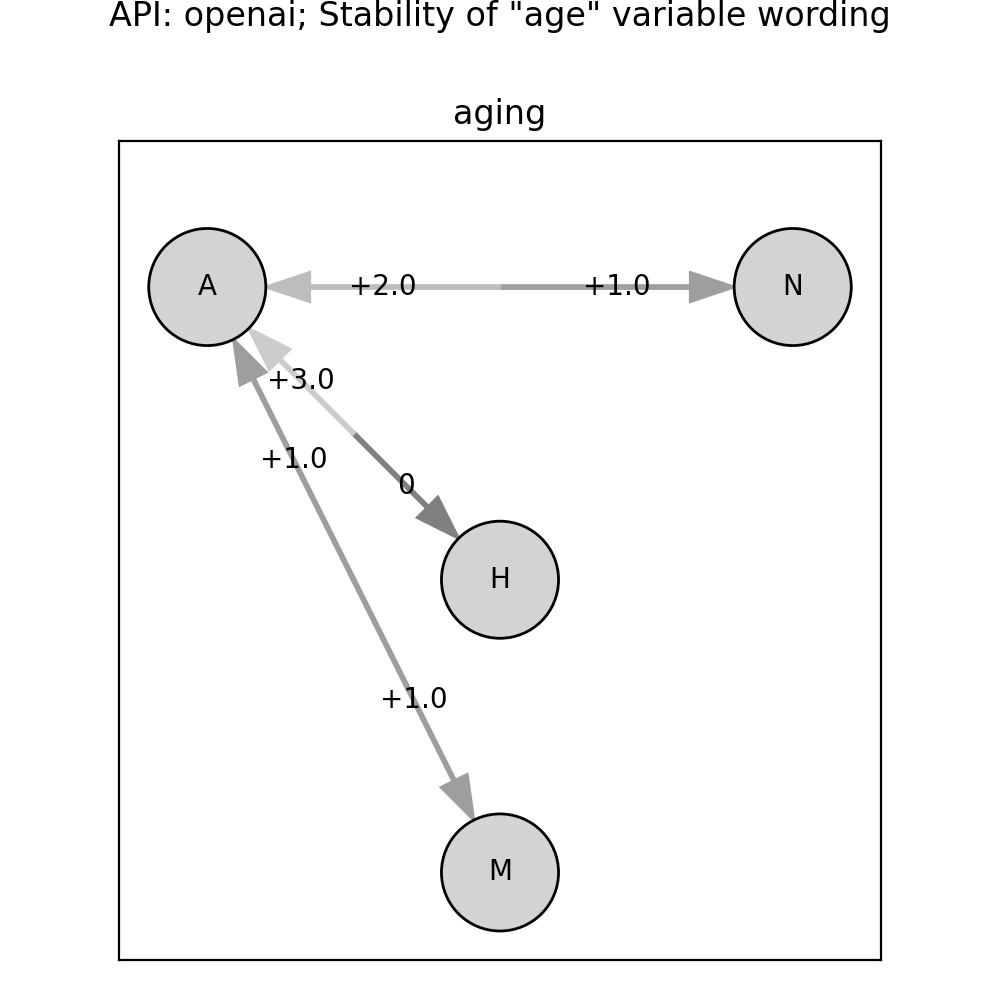
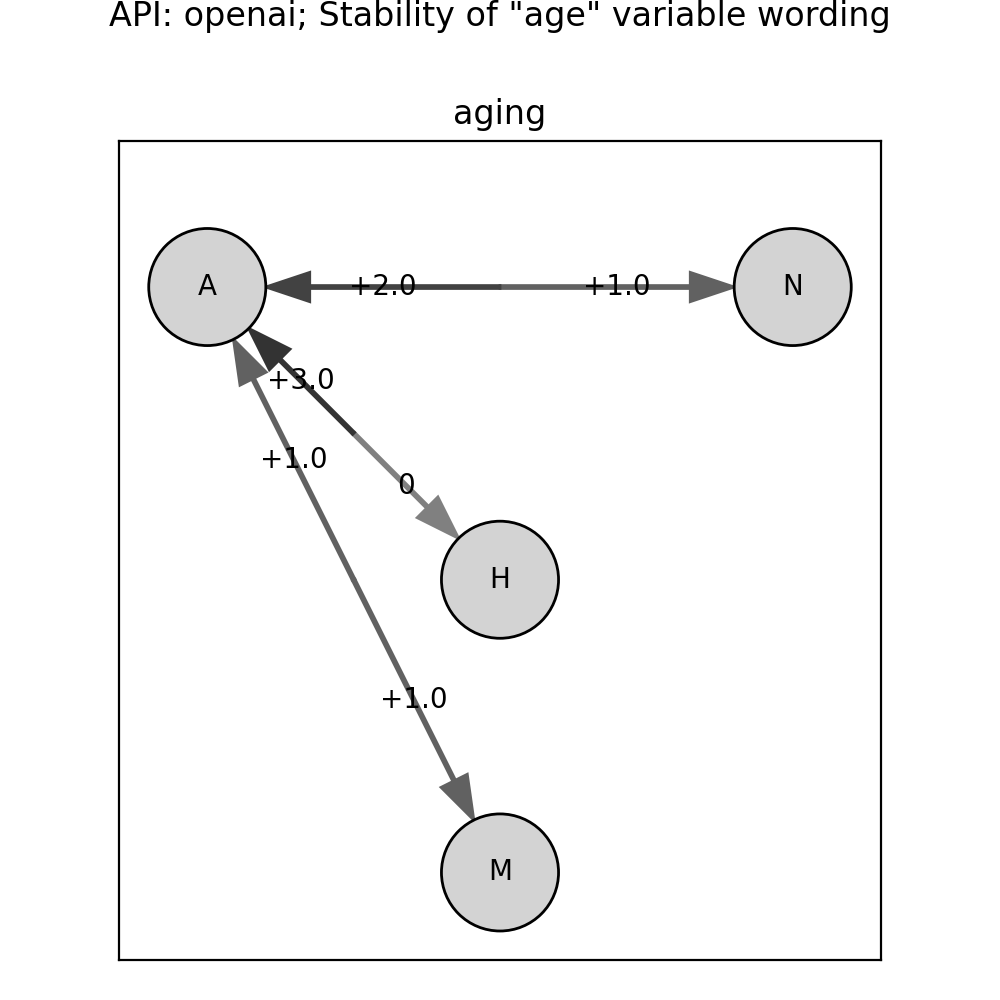
inversed diverging color coding

diff --git a/plot.py b/plot.py
@@ -144,10 +144,13 @@ def draw_edge(p0, p1, f01, f10, pad, active_color=None, alt_color=None, mode=Non
 
         f01 = (f01 + 1) / 2  # map -1..1 to 0..1
         f10 = (f10 + 1) / 2
+
+        f01s = 1 - f01
+        f10s = 1 - f10
         c0, c1, c2 = active_color #->positive
         b0, b1, b2 = alt_color #->negative
-        r_color01 = (lerp(b0, c0, f01), lerp(b1, c1, f01), lerp(b2, c2, f01))
-        r_color10 = (lerp(b0, c0, f10), lerp(b1, c1, f10), lerp(b2, c2, f10))
+        r_color01 = (lerp(b0, c0, f01s), lerp(b1, c1, f01s), lerp(b2, c2, f01s))
+        r_color10 = (lerp(b0, c0, f10s), lerp(b1, c1, f10s), lerp(b2, c2, f10s))
     else:
         raise RuntimeError(f"Unknown display mode: {mode}")
 
